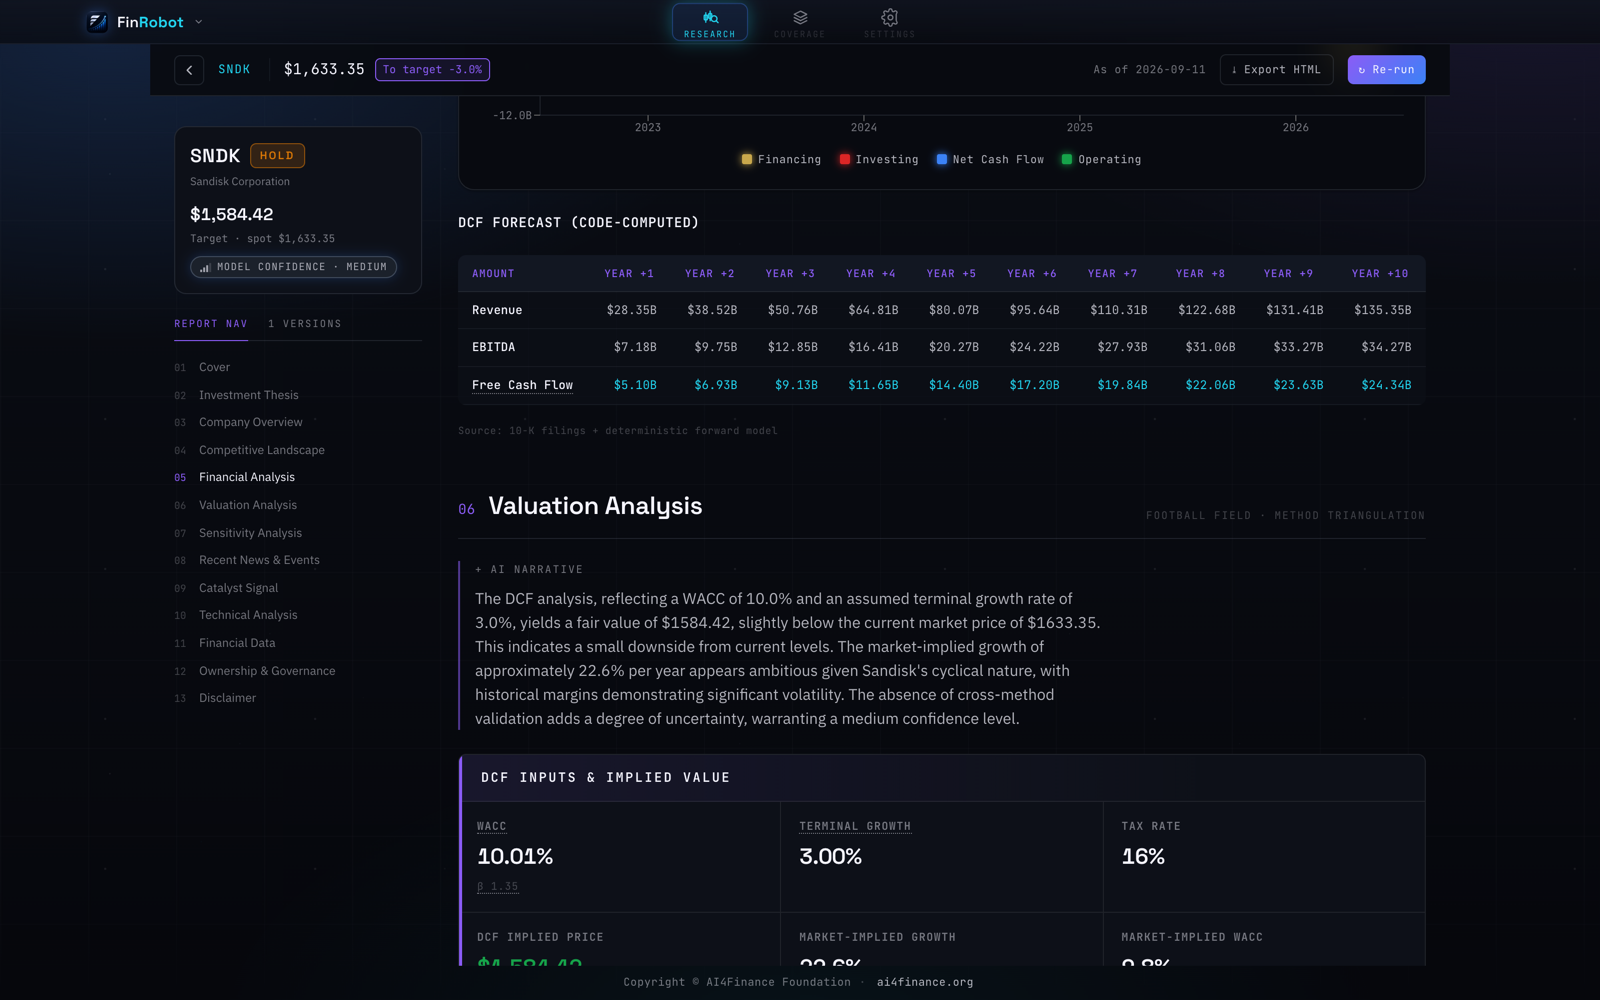
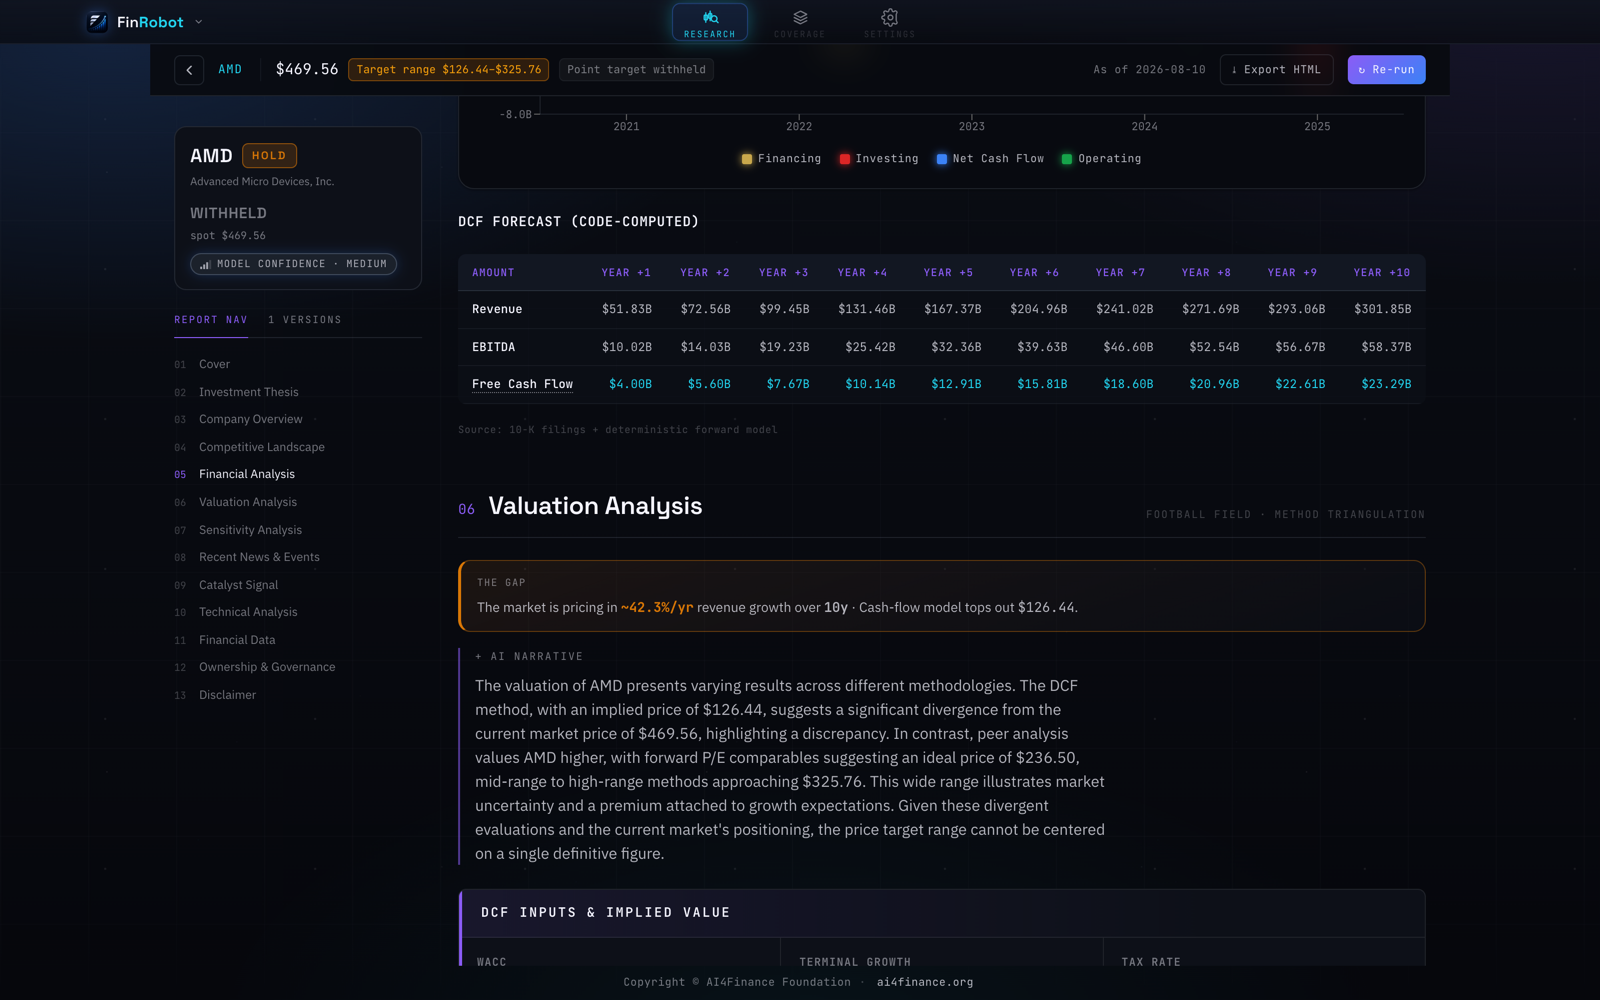
docs: use a report that actually triangulates for the valuation figures
The football-field capture came from SNDK, whose report ran a single method —
the chart showed one bar under a caption claiming it triangulates methods.
Swap both valuation figures to AMD, which computed three: DCF, forward-P/E
comps and EV/EBITDA.

Using the same report for the pair also lines them up: the DCF forecast, the
narrative comparing all three methods, and the football field are now one
company's numbers rather than two.

AMD's methods diverged 2.6x, so the report withheld the point target and
shipped only the range. The caption says so — that guard firing is the
provenance argument working, not a gap in the screenshot.

diff --git a/finrobot_desktop/README.md b/finrobot_desktop/README.md
@@ -109,7 +109,7 @@ Everything here is pure Python with no model in the loop, which is what makes th
 <img src="../figs/desktop-valuation.png" width="92%" alt="Football-field valuation triangulation and the explicit-period assumptions behind the DCF"/>
 </div>
 
-<p align="center"><i>Top: the DCF table is labelled <b>code-computed</b> — ten years from pure-Python operators — while the paragraph beside it is the LLM reading those numbers back.<br/>Bottom: the football field triangulates methods, and every assumption states the basis it came from.</i></p>
+<p align="center"><i>Top: the DCF table is labelled <b>code-computed</b> — ten years from pure-Python operators — while the paragraph beside it is the LLM reading those numbers back.<br/>Bottom: the football field triangulates three methods — DCF, forward-P/E comps and EV/EBITDA. They diverged 2.6x here, so the point target was withheld and only the range ships; each assumption still states the basis it came from.</i></p>
 
 ### Data layer
 

diff --git a/README.md b/README.md
@@ -94,7 +94,7 @@ A native desktop equity research cockpit powered by a production-grade multi-age
 <img src="figs/desktop-dcf.png" width="92%" alt="DCF forecast table labelled code-computed, with WACC, terminal growth and tax rate, next to the LLM's narrative"/>
 </div>
 
-<p align="center"><i>The design principle, visible in the product: the DCF table is labelled <b>code-computed</b> — a ten-year forecast from pure-Python operators — while the paragraph beside it is the LLM reading those numbers back.</i></p>
+<p align="center"><i>The design principle, visible in the product: the DCF table is labelled <b>code-computed</b> — a ten-year forecast from pure-Python operators — while the paragraph beside it is the LLM reading those numbers back across all three valuation methods.</i></p>
 
 👉 **Latest release:** [FinRobot Desktop v0.1.0](https://github.com/AI4Finance-Foundation/FinRobot/releases/tag/desktop-v0.1.0)
 
